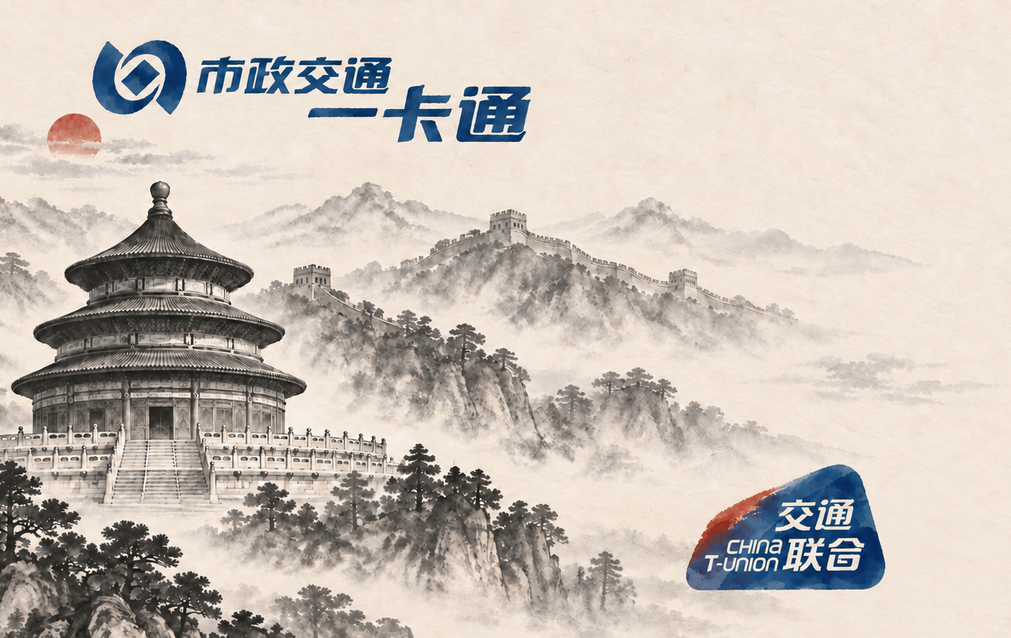
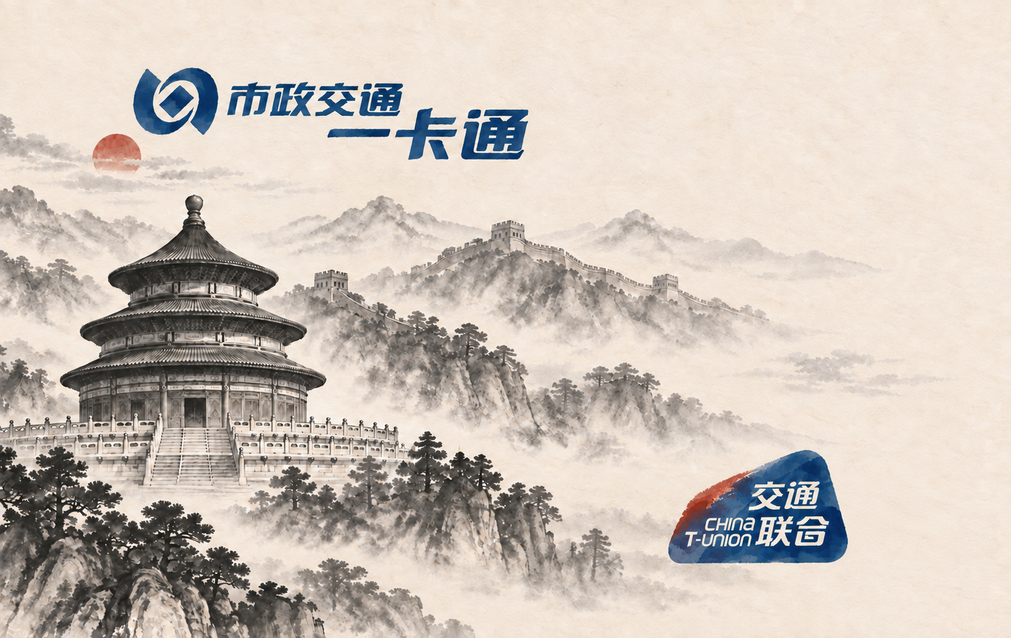
fix: preserve edge content when fitting cards

diff --git a/skills/card-creator/scripts/prepare_card.py b/skills/card-creator/scripts/prepare_card.py
@@ -39,6 +39,33 @@ def cover(image: Image.Image, size: tuple[int, int]) -> Image.Image:
     return ImageOps.fit(image.convert("RGB"), size, method=Image.Resampling.LANCZOS, centering=(0.5, 0.5))
 
 
+def estimate_border_fill(image: Image.Image) -> tuple[int, int, int]:
+    """Estimate a light neutral fill from the source border for contain-mode padding."""
+    rgb = image.convert("RGB")
+    width, height = rgb.size
+    x_step = max(1, width // 32)
+    y_step = max(1, height // 32)
+    samples = [rgb.getpixel((x, y)) for x in range(0, width, x_step) for y in (0, height - 1)]
+    samples.extend(rgb.getpixel((x, y)) for y in range(0, height, y_step) for x in (0, width - 1))
+    light = [pixel for pixel in samples if sum(pixel) >= 630]
+    selected = light or samples
+    return tuple(sorted(pixel[channel] for pixel in selected)[len(selected) // 2] for channel in range(3))
+
+
+def contain_within_trim(image: Image.Image, inset: int) -> Image.Image:
+    """Preserve the full source inside trim and extend the surrounding paper into bleed."""
+    if inset < 0 or inset * 2 >= min(TRIM_SIZE):
+        raise SystemExit("--contain-inset must be non-negative and smaller than half the trim size")
+    source = image.convert("RGB")
+    available = (TRIM_SIZE[0] - inset * 2, TRIM_SIZE[1] - inset * 2)
+    contained = ImageOps.contain(source, available, method=Image.Resampling.LANCZOS)
+    canvas = Image.new("RGB", BLEED_SIZE, estimate_border_fill(source))
+    x = BLEED + (TRIM_SIZE[0] - contained.width) // 2
+    y = BLEED + (TRIM_SIZE[1] - contained.height) // 2
+    canvas.paste(contained, (x, y))
+    return canvas
+
+
 def load_manifest(path: Path) -> dict:
     with path.open("r", encoding="utf-8") as handle:
         return json.load(handle)
@@ -229,6 +256,18 @@ def main() -> None:
     parser.add_argument("--input", required=True, type=Path, help="Generated background image")
     parser.add_argument("--output-dir", required=True, type=Path)
     parser.add_argument("--name", default="card-face", help="Output filename stem")
+    parser.add_argument(
+        "--fit-mode",
+        choices=("cover", "contain"),
+        default="cover",
+        help="cover fills bleed by cropping; contain preserves the whole source inside trim",
+    )
+    parser.add_argument(
+        "--contain-inset",
+        type=int,
+        default=0,
+        help="Extra trim inset in pixels for contain mode; useful for edge-bound embedded marks",
+    )
     parser.add_argument("--manifest", type=Path, default=Path(__file__).parents[1] / "assets/stickers/manifest.json")
     parser.add_argument(
         "--sticker",
@@ -257,7 +296,13 @@ def main() -> None:
     args = parser.parse_args()
 
     args.output_dir.mkdir(parents=True, exist_ok=True)
-    background = cover(Image.open(args.input), BLEED_SIZE).convert("RGBA")
+    source = Image.open(args.input)
+    if args.fit_mode == "contain":
+        background = contain_within_trim(source, args.contain_inset).convert("RGBA")
+    else:
+        if args.contain_inset:
+            raise SystemExit("--contain-inset requires --fit-mode contain")
+        background = cover(source, BLEED_SIZE).convert("RGBA")
     used = resolve_stickers(args.manifest.resolve(), args.sticker)
     styles = parse_sticker_styles(args.sticker_style)
     widths = parse_sticker_widths(args.sticker_width)
@@ -299,6 +344,7 @@ def main() -> None:
         "trim": str(trim_path.resolve()),
         "guides": str(guide_path.resolve()),
         "dimensions": {"bleed": BLEED_SIZE, "trim": TRIM_SIZE},
+        "fit": {"mode": args.fit_mode, "contain_inset": args.contain_inset},
         "stickers": [item["id"] for item, _, _ in used],
         "sticker_placements": [
             {

diff --git a/tests/test_prepare_card.py b/tests/test_prepare_card.py
@@ -146,6 +146,42 @@ class PrepareCardTests(unittest.TestCase):
             self.assertNotEqual(completed.returncode, 0)
             self.assertIn("not approved/ready", completed.stderr)
 
+    def test_contain_mode_preserves_edge_content_with_inset(self) -> None:
+        with tempfile.TemporaryDirectory() as temporary:
+            root = Path(temporary)
+            background = root / "background.png"
+            output = root / "output"
+            source = Image.new("RGB", (1500, 1000), "#f6f0e6")
+            source.putpixel((0, 0), (180, 20, 20))
+            source.putpixel((1499, 999), (20, 20, 180))
+            source.save(background)
+
+            completed = subprocess.run(
+                [
+                    sys.executable,
+                    str(SCRIPT),
+                    "--input",
+                    str(background),
+                    "--output-dir",
+                    str(output),
+                    "--name",
+                    "contained",
+                    "--fit-mode",
+                    "contain",
+                    "--contain-inset",
+                    "20",
+                ],
+                check=True,
+                capture_output=True,
+                text=True,
+            )
+
+            result = json.loads(completed.stdout)
+            self.assertEqual(result["fit"], {"mode": "contain", "contain_inset": 20})
+            with Image.open(output / "contained-trim.png") as image:
+                self.assertEqual(image.size, (1011, 638))
+                self.assertNotEqual(image.getpixel((0, 0)), (180, 20, 20))
+
 
 if __name__ == "__main__":
     unittest.main()

diff --git a/skills/card-creator/references/card-rules.md b/skills/card-creator/references/card-rules.md
@@ -30,6 +30,10 @@ Coordinate system for the full-bleed master:
   material treatment inside the exact source-logo geometry. Omit the option for original colors.
 - `--sticker-width ID=420` sets an explicit rendered width. Use it for intentionally oversized,
   corner-filling, repeated, or near-full-card marks instead of shrinking every mark into the blue guide.
+- `prepare_card.py --fit-mode contain --contain-inset 20` preserves an edge-bound source composition
+  inside trim and extends a sampled paper/background color into bleed. Use it when cover-cropping would
+  cut embedded marks or focal artwork; the default `cover` mode remains appropriate for true full-bleed
+  backgrounds.
 
 ## Composition
 
